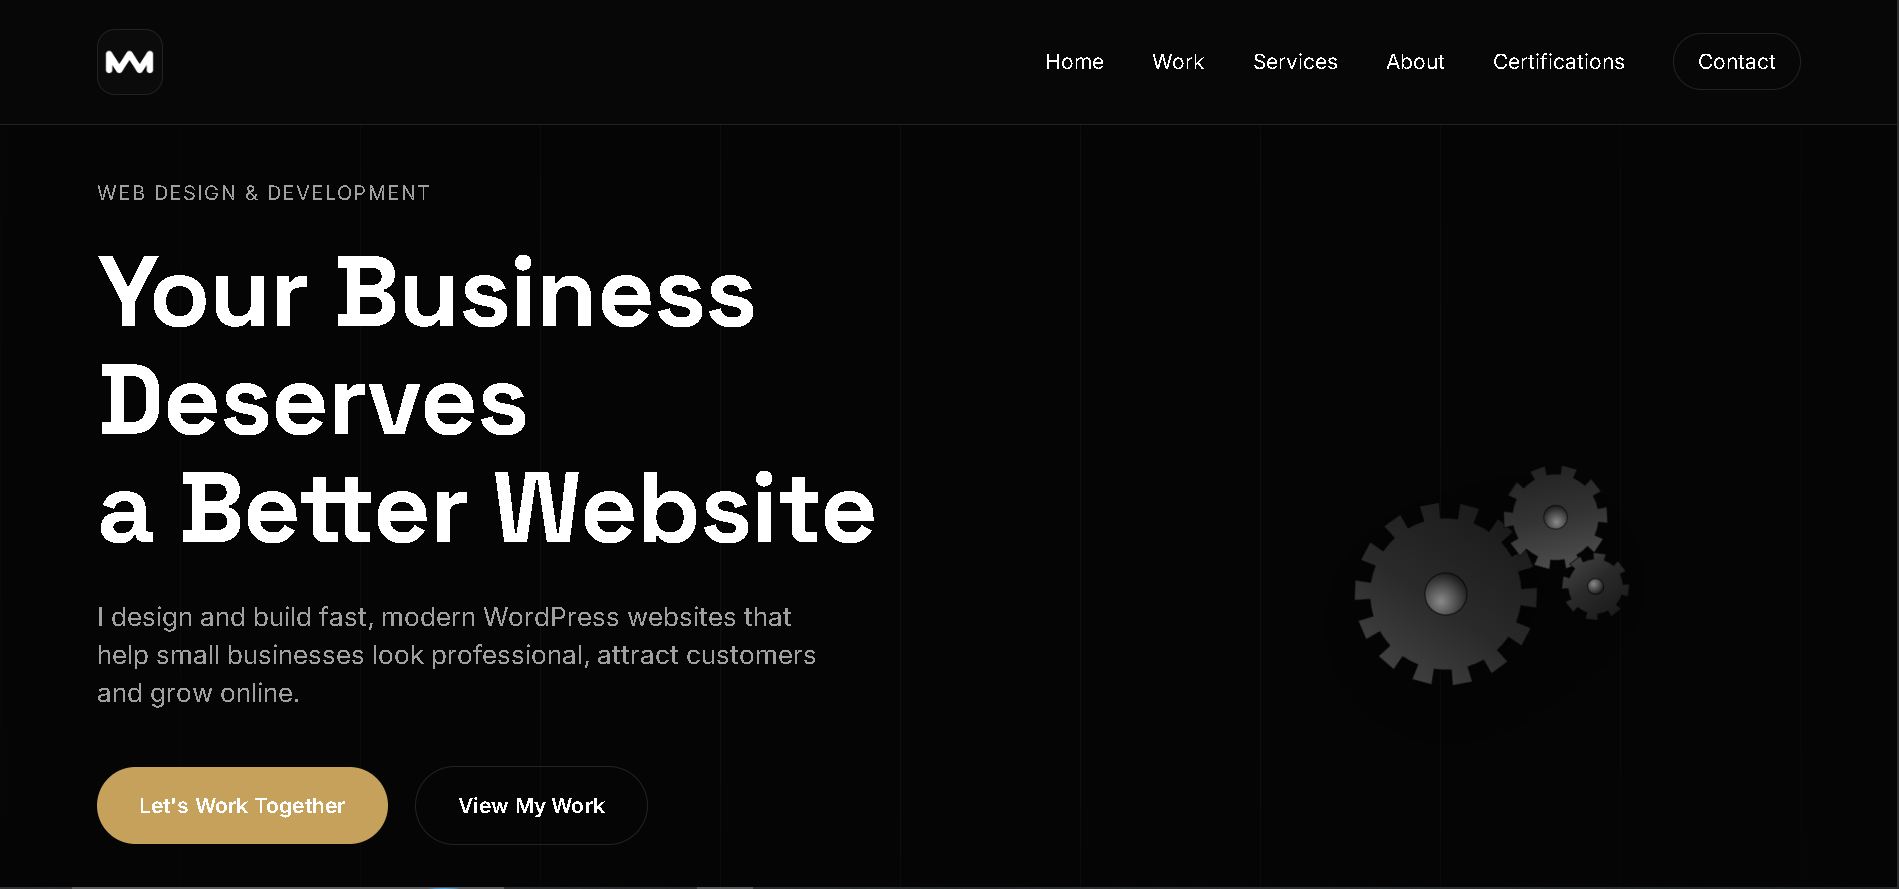
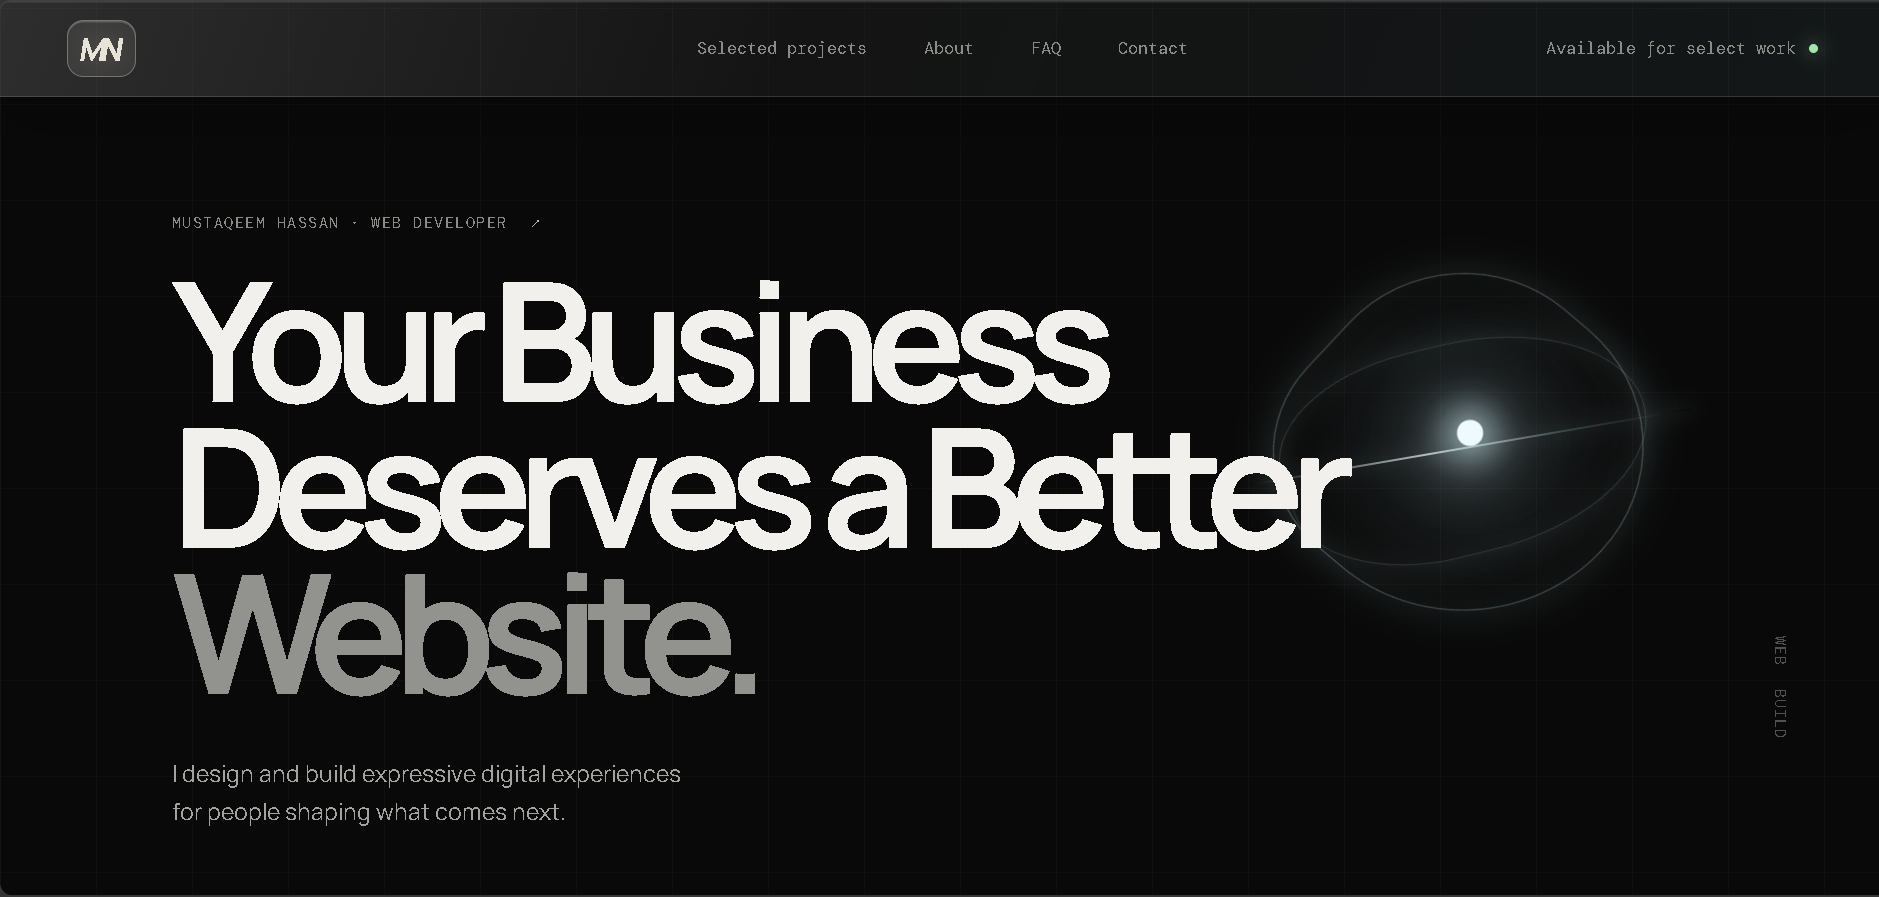
Add files via upload

diff --git a/index.html b/index.html
@@ -284,10 +284,10 @@
           </div>
           <div class="mh-portfolio-work-info">
             <div class="mh-portfolio-work-top">
-              <span class="mh-portfolio-work-category">portfolio Website</span>
+              <span class="mh-portfolio-work-category">portfolio Landing Page</span>
               <span class="mh-portfolio-work-year"><!-- EDIT: year -->2026</span>
             </div>
-            <h3 class="mh-portfolio-work-title"><!-- EDIT: project name -->portfolio Website</h3>
+            <h3 class="mh-portfolio-work-title"><!-- EDIT: project name -->portfolio Landing Page</h3>
             <p class="mh-portfolio-work-desc">
               <!-- EDIT: description -->
               A minimal, editorial portfolio crafted for a modern creative developer — blending immersive visuals, refined interactions, and a distraction-free experience that puts the work first.
@@ -296,7 +296,7 @@
               <span>WordPress</span><span>Elementor</span>
             </div>
             <!-- EDIT: replace # with the live site URL, or delete this line if it's not live yet -->
-            <a href="https://noirfolio-ar6oacap.manus.space" class="mh-portfolio-work-link" target="_blank" rel="noopener">Visit Website ↗</a>
+            <a href="#" class="mh-portfolio-work-link" target="_blank" rel="noopener">Visit Website ↗</a>
           </div>
         </article>
 
